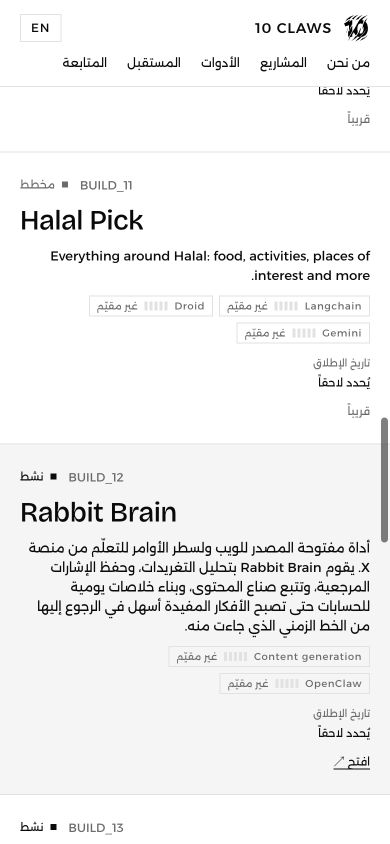
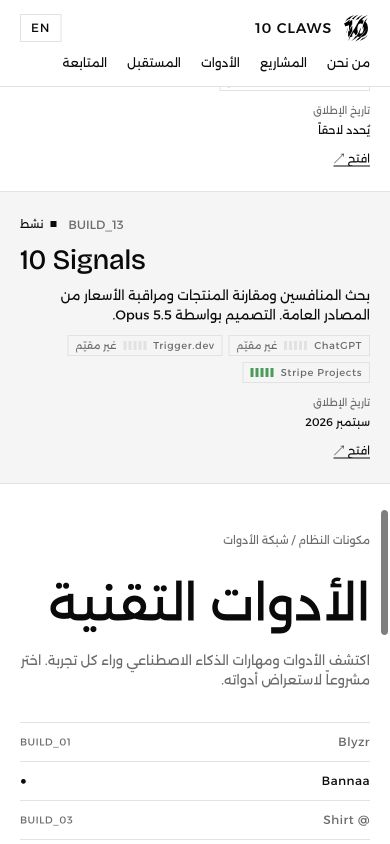
feat: preserve month-only project launch dates

diff --git a/components/project-manager.tsx b/components/project-manager.tsx
@@ -135,6 +135,9 @@ function ProjectForm({
   })
   const [stackFilter, setStackFilter] = useState("")
   const [stackChanged, setStackChanged] = useState(false)
+  const [launchPrecision, setLaunchPrecision] = useState<"date" | "month">(
+    project?.launchDate?.length === 7 ? "month" : "date"
+  )
 
   const selectedStack = deriveProjectStack(stackItems, formData.stackItemIds)
 
@@ -203,11 +206,27 @@ function ProjectForm({
       <div className="grid grid-cols-2 gap-4">
         <div>
           <label htmlFor="project-launch-date" className="text-sm font-medium">Launch date</label>
+          <select
+            aria-label="Launch date precision"
+            className="mb-2 block w-full border border-gray-200 bg-white px-3 py-2 text-sm"
+            value={launchPrecision}
+            onChange={(e) => {
+              const precision = e.target.value as "date" | "month"
+              setLaunchPrecision(precision)
+              setFormData((prev) => ({
+                ...prev,
+                launchDate: precision === "month" ? prev.launchDate?.slice(0, 7) || "" : "",
+              }))
+            }}
+          >
+            <option value="date">Exact date</option>
+            <option value="month">Month only</option>
+          </select>
           <Input
             id="project-launch-date"
-            type="date"
-            min="0001-01-01"
-            max="9999-12-31"
+            type={launchPrecision}
+            min={launchPrecision === "month" ? "0001-01" : "0001-01-01"}
+            max={launchPrecision === "month" ? "9999-12" : "9999-12-31"}
             value={formData.launchDate || ""}
             onChange={(e) => setFormData((prev) => ({ ...prev, launchDate: e.target.value }))}
             aria-describedby="launch-date-help"

diff --git a/lib/launch-date.ts b/lib/launch-date.ts
@@ -1,18 +1,20 @@
-// Launch dates are calendar dates, never timestamps in the viewer's timezone.
+// Preserve month-only precision; launch dates are never viewer-local timestamps.
 export function isLaunchDate(value: string): boolean {
-  if (!/^\d{4}-\d{2}-\d{2}$/.test(value) || value.startsWith("0000")) return false;
-  const date = new Date(`${value}T00:00:00.000Z`);
-  return Number.isFinite(date.getTime()) && date.toISOString().slice(0, 10) === value;
+  if (!/^\d{4}-\d{2}(-\d{2})?$/.test(value) || value.startsWith("0000")) return false;
+  const calendarDate = value.length === 7 ? `${value}-01` : value;
+  const date = new Date(`${calendarDate}T00:00:00.000Z`);
+  return Number.isFinite(date.getTime()) && date.toISOString().slice(0, 10) === calendarDate;
 }
 
 export function formatLaunchDate(value?: string, locale = "en"): string {
   if (!value || !isLaunchDate(value)) return locale === "ar" ? "يُحدد لاحقاً" : "TBA";
+  const monthOnly = value.length === 7;
   return new Intl.DateTimeFormat(locale === "ar" ? "ar" : "en-GB", {
-    day: "numeric",
-    month: "short",
+    day: monthOnly ? undefined : "numeric",
+    month: monthOnly ? "long" : "short",
     year: "numeric",
     calendar: "gregory",
     numberingSystem: "latn",
     timeZone: "UTC",
-  }).format(new Date(`${value}T00:00:00.000Z`));
+  }).format(new Date(`${monthOnly ? `${value}-01` : value}T00:00:00.000Z`));
 }

diff --git a/convex/lib.ts b/convex/lib.ts
@@ -38,7 +38,7 @@ export function assertProjectInput(input: {
     throw new ConvexError("Growth must be a finite percentage");
   }
   if (input.launchDate && !isLaunchDate(input.launchDate)) {
-    throw new ConvexError("Launch date must be a valid YYYY-MM-DD calendar date");
+    throw new ConvexError("Launch date must be a valid YYYY-MM month or YYYY-MM-DD calendar date");
   }
   if (input.progress !== undefined && (!Number.isFinite(input.progress) || input.progress < 0 || input.progress > 100)) {
     throw new ConvexError("Project progress must be between 0 and 100");

diff --git a/docs/launch-dates-qa.md b/docs/launch-dates-qa.md
@@ -1,14 +1,14 @@
 # Project launch dates — 30 September 2026
 
-Project summaries now show launch dates instead of completion percentages and progress bars. The admin project editor accepts an optional calendar date; clearing it shows TBA (Arabic: يُحدد لاحقاً). Existing project percentages and monthly metrics remain stored, and existing projects were not assigned inferred launch dates.
+Project summaries now show launch dates instead of completion percentages and progress bars. The admin project editor accepts an optional calendar date or month; clearing it shows TBA (Arabic: يُحدد لاحقاً). Existing project percentages and monthly metrics remain stored, and existing projects were not assigned inferred launch dates.
 
 Validation:
 
 - `pnpm lint` and `pnpm exec tsc --noEmit` passed.
 - `pnpm build` and the production Vercel build passed.
-- `node --test tests/launch-date.test.mjs tests/home-redesign.test.mjs`: 8 tests passed, including invalid calendar dates, leap days, unknown dates, and consistent formatting across timezones.
+- `node --test tests/launch-date.test.mjs tests/home-redesign.test.mjs`: 9 tests passed, including invalid calendar dates, leap days, unknown dates, and consistent formatting across timezones.
 - Live English desktop and Arabic mobile (390px) show launch-date cells without project progress bars or horizontal overflow.
-- Production Convex contains 10 Signals (BUILD_13), Active, using ChatGPT, Trigger.dev, and Stripe Projects, with the Opus 5.5 design credit. Its launch date is unset. All ten pre-existing project query results were unchanged by this insertion.
+- Production Convex contains 10 Signals (BUILD_13), Active, using ChatGPT, Trigger.dev, and Stripe Projects, with the Opus 5.5 design credit. Its launch month is September 2026 (`2026-09`), as supplied by the owner; no day is inferred. All ten pre-existing project query results were unchanged by this insertion.
 - Temporary insertion helper removed and backend redeployed.
 - Authenticated admin form submission was not exercised because the browser session was signed out; field plumbing and backend validation passed type checks and review.
 

diff --git a/README.md b/README.md
@@ -162,4 +162,4 @@ Do not assume a Vercel deployment also publishes Convex schema or function chang
 
 The project remains linked to its original [v0 workspace](https://v0.dev/chat/projects/Jj03MH9lC8M). Coordinate edits made in v0 with this repository to avoid source drift.
 
-Project launch dates use an optional `launchDate` calendar date (`YYYY-MM-DD`). Set or clear it in the project editor; unknown dates display **TBA** (Arabic: **يُحدد لاحقاً**). Project summaries no longer show completion percentages or progress bars. Existing percentage values and monthly metric history remain stored.
+Project launch dates use an optional `launchDate` calendar date (`YYYY-MM-DD`) or month (`YYYY-MM`). Set or clear it in the project editor; unknown dates display **TBA** (Arabic: **يُحدد لاحقاً**). Project summaries no longer show completion percentages or progress bars. Existing percentage values and monthly metric history remain stored.
